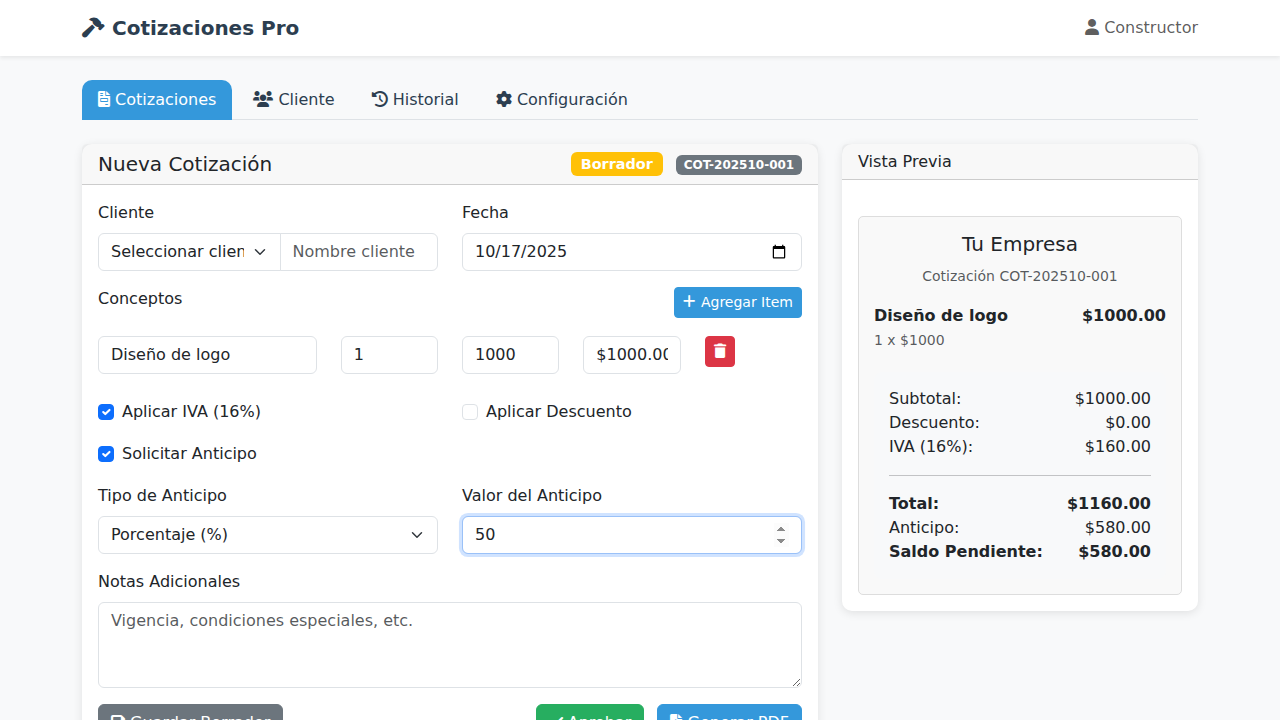
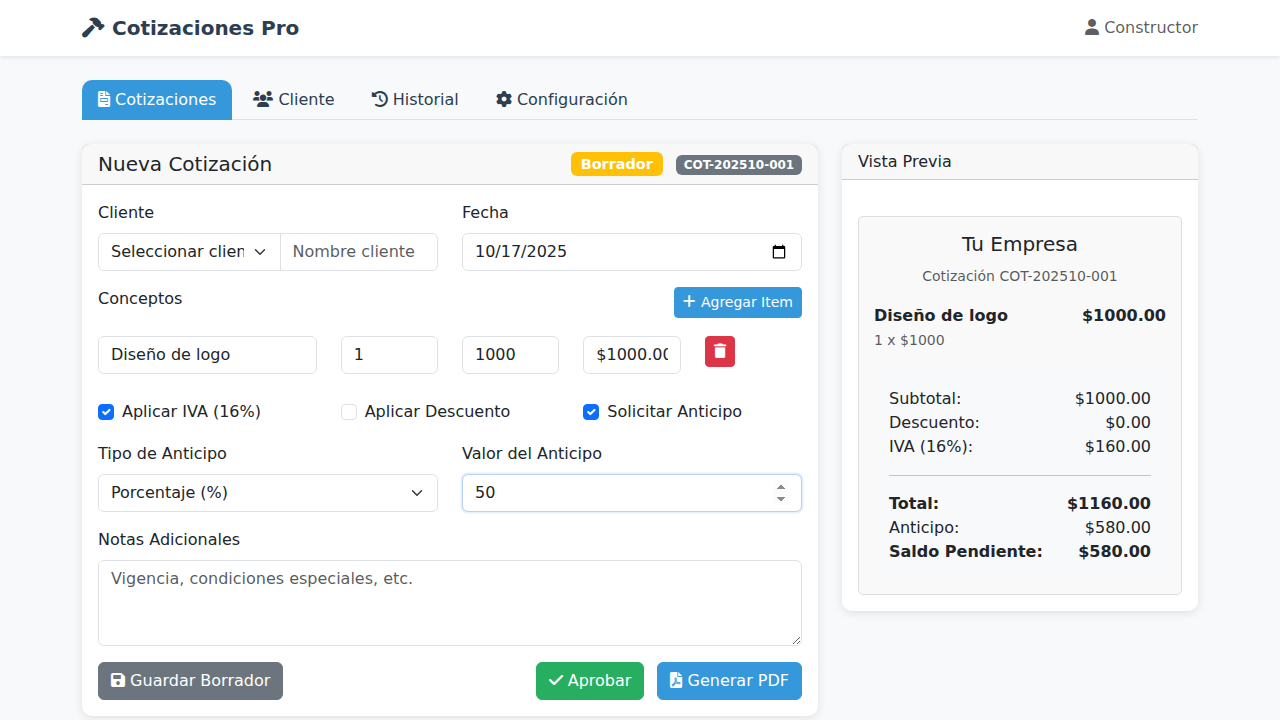
fix: Improve visibility of the 'anticipo' feature
This commit relocates the 'Solicitar Anticipo' checkbox in `index.html` to be on the same line as the other primary form options (IVA and Discount). This makes the feature more discoverable for the user.

Also includes a minor cleanup by removing a duplicated `DOMContentLoaded` event listener in `js/app.js`.

diff --git a/index.html b/index.html
@@ -97,7 +97,7 @@
                                 </div>
                                 <!-- Options Section -->
                                 <div class="row mb-3">
-                                    <div class="col-md-6">
+                                    <div class="col-md-4">
                                         <div class="form-check">
                                             <input class="form-check-input" type="checkbox" id="aplicarIVA" checked>
                                             <label class="form-check-label" for="aplicarIVA">
@@ -105,11 +105,19 @@
                                             </label>
                                         </div>
                                     </div>
-                                    <div class="col-md-6">
+                                    <div class="col-md-4">
                                         <div class="form-check">
                                             <input class="form-check-input" type="checkbox" id="aplicarDescuento">
                                             <label class="form-check-label" for="aplicarDescuento">
                                                 Aplicar Descuento
+                                            </label>
+                                        </div>
+                                    </div>
+                                    <div class="col-md-4">
+                                        <div class="form-check">
+                                            <input class="form-check-input" type="checkbox" id="aplicarAnticipo">
+                                            <label class="form-check-label" for="aplicarAnticipo">
+                                                Solicitar Anticipo
                                             </label>
                                         </div>
                                     </div>
@@ -129,16 +137,6 @@
                                     </div>
                                 </div>
                                 <!-- Anticipo Section -->
-                                <div class="row mb-3">
-                                    <div class="col-md-12">
-                                        <div class="form-check">
-                                            <input class="form-check-input" type="checkbox" id="aplicarAnticipo">
-                                            <label class="form-check-label" for="aplicarAnticipo">
-                                                Solicitar Anticipo
-                                            </label>
-                                        </div>
-                                    </div>
-                                </div>
                                 <div class="row mb-3 hidden" id="anticipoSection">
                                     <div class="col-md-6">
                                         <label class="form-label">Tipo de Anticipo</label>

diff --git a/js/app.js b/js/app.js
@@ -143,13 +143,6 @@ function toggleAnticipo() {
     calcularTotales();
 }
 
-document.addEventListener('DOMContentLoaded', function() {
-    const activeTab = document.querySelector('.tab-pane.show.active');
-    if (activeTab && activeTab.id === 'cotizaciones') {
-        inicializarCotizador();
-    }
-});
-
 // ========== CLIENTES: ACTUALIZAR SELECT ==========
 function actualizarSelectClientes() {
     const select = document.getElementById('clienteSelect');
